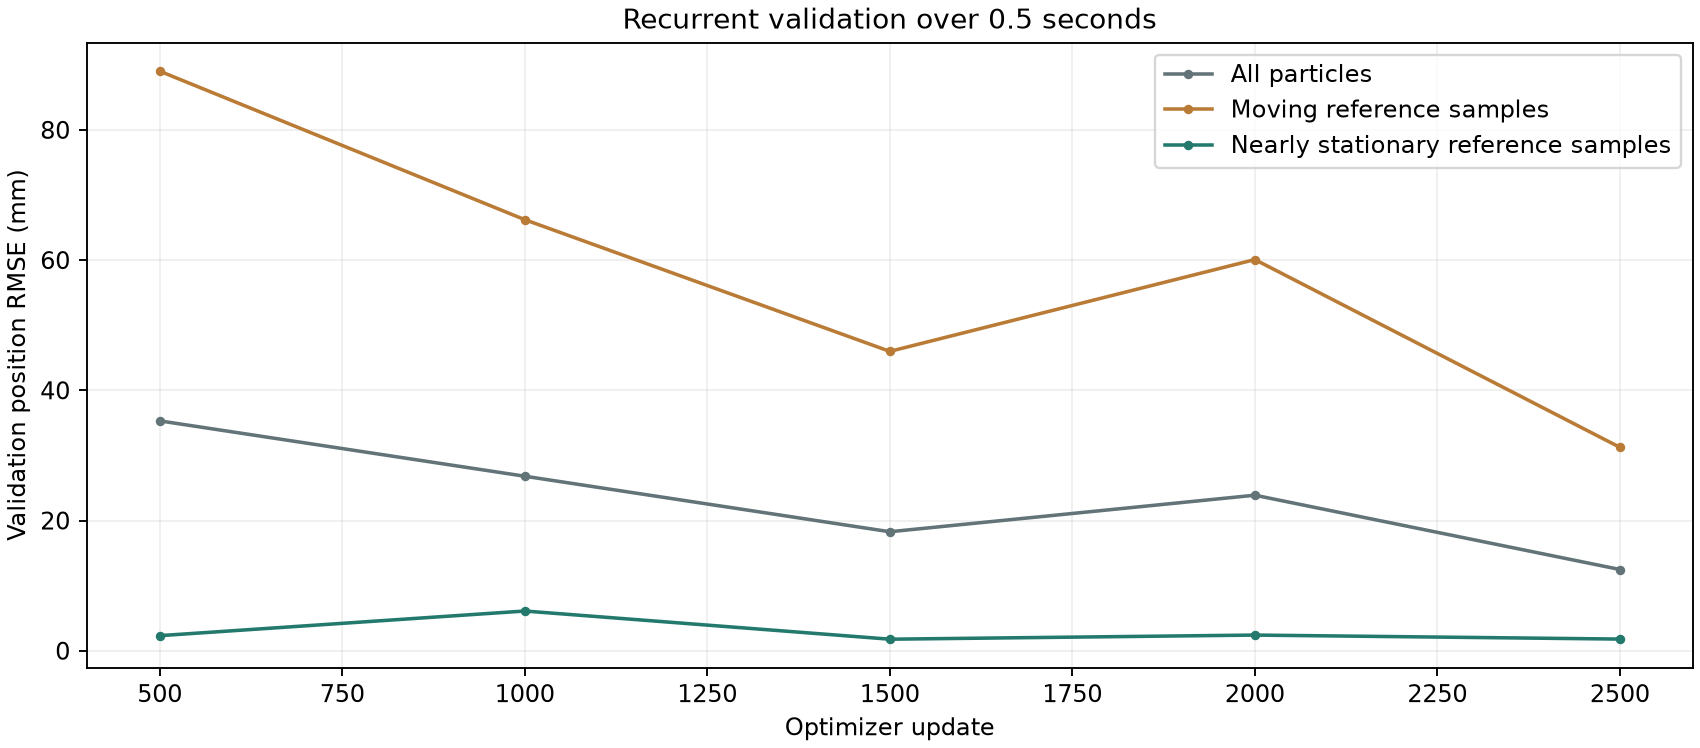
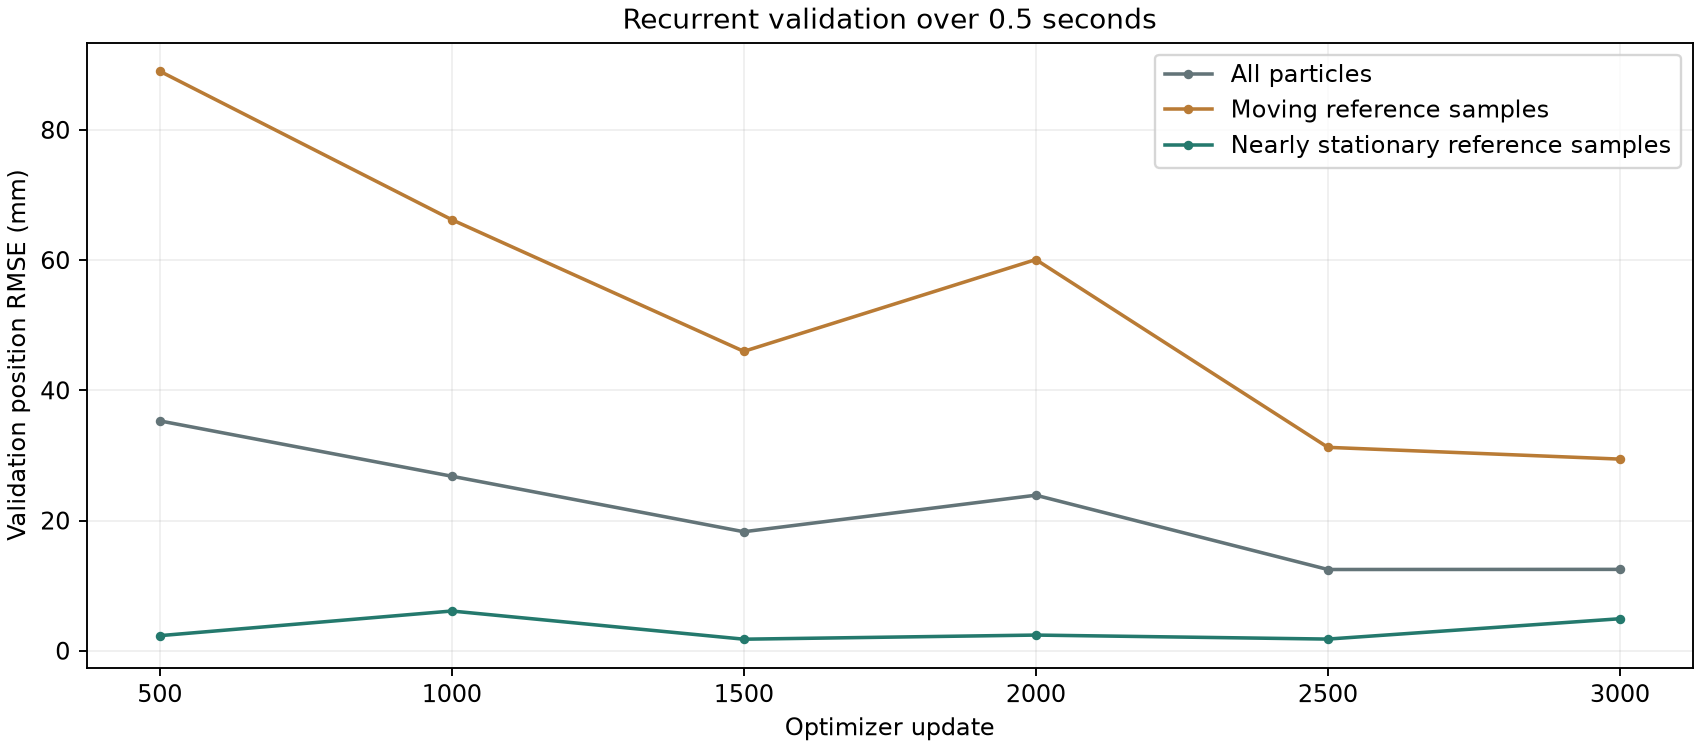
Update long-horizon Transolver progress (RUNNING)

diff --git a/transolver_long_horizon.html b/transolver_long_horizon.html
@@ -4,7 +4,7 @@
 <nav><a href="index.html">Methodology</a><a href="transolver.html">Transolver baseline</a><a href="gnn-v2.html">GNN v2</a></nav>
 <p class="tag">PARTICLE MOTION / RECURRENT TRAINING</p><h1>Transolver: 0.5-second training horizon</h1>
 <p class="lead">Reduce unwanted motion of settled material while retaining particle motion caused by the rigid box.</p>
-<div class="status"><strong>RUNNING</strong><p>Latest saved validation: update 2,500 / 10,000.</p><p><a href="https://us-west-2-aws.osmo.nvidia.com/workflows/particle-transolver-long-1">OSMO workflow</a> · <a href="https://dashboards.telemetry.dgxc.ngc.nvidia.com/d/workflow_resources/workflow-resources-v2?orgId=46&amp;var-datasource=ae6qyv87oh0cgd&amp;var-cluster=osmogroot-dgxc-k8s-forge-az41-prd1&amp;var-namespace=osmo-prod&amp;var-uuid=04e190c7cffc40b2&amp;from=now-1h&amp;to=now">GPU resource usage</a> · <a href="https://ovx-l40s-03.osmo.nvidia.com/dashboard/#/search?namespace=osmo-prod&amp;q=04e190c7cffc40b2">Task dashboard</a></p><p class="small">Updated 2026-10-20 04:12 UTC. Refresh this page for new checkpoint measurements.</p></div>
+<div class="status"><strong>RUNNING</strong><p>Latest saved validation: update 3,000 / 10,000.</p><p><a href="https://us-west-2-aws.osmo.nvidia.com/workflows/particle-transolver-long-1">OSMO workflow</a> · <a href="https://dashboards.telemetry.dgxc.ngc.nvidia.com/d/workflow_resources/workflow-resources-v2?orgId=46&amp;var-datasource=ae6qyv87oh0cgd&amp;var-cluster=osmogroot-dgxc-k8s-forge-az41-prd1&amp;var-namespace=osmo-prod&amp;var-uuid=04e190c7cffc40b2&amp;from=now-1h&amp;to=now">GPU resource usage</a> · <a href="https://ovx-l40s-03.osmo.nvidia.com/dashboard/#/search?namespace=osmo-prod&amp;q=04e190c7cffc40b2">Task dashboard</a></p><p class="small">Updated 2026-10-20 04:15 UTC. Refresh this page for new checkpoint measurements.</p></div>
 <h2>01 / Experiment</h2><table><tr><th>Setting</th><th>Baseline</th><th>New experiment</th></tr>
 <tr><td>Recurrent training horizon</td><td>4 steps / 0.08 s</td><td>25 steps / 0.5 s</td></tr>
 <tr><td>Loss</td><td>Moving samples weighted 5×; other samples 1×</td><td>Separate group means, equal weight</td></tr>
@@ -29,7 +29,7 @@ Backpropagate through the full sequence; no history reset or detached steps.</pr
 dt = 0.02 s</pre>
 <p>Both groups retain their reference position targets. Nearly stationary does not impose exactly zero motion. If a sequence contains only one group, that group receives the full loss. The grouping is based only on reference motion and does not freeze predicted particles.</p>
 <p>Each GPU trains on one sequence per update. Group normalization is applied within each sequence, then distributed training averages gradients. Recorded rigid-box pose and velocity are inputs at every step. Validation uses 32 fixed sequences at the same 25-step horizon. Checkpoint selection uses the square root of the average of the two pooled group mean squared position errors.</p>
-<h2>03 / Training progress</h2><table><tr><th>Validation measure at 25 steps</th><th>Latest value</th></tr><tr><td>All particle-time samples</td><td>12.476 mm</td></tr><tr><td>Moving reference samples</td><td>31.240 mm</td></tr><tr><td>Nearly stationary reference samples</td><td>1.790 mm</td></tr><tr><td>Balanced checkpoint-selection score</td><td>22.126 mm</td></tr></table><p class="small">Peak allocated PyTorch GPU memory on rank 0: 2.30 GiB. This excludes other processes and allocations outside PyTorch.</p><img src="assets/transolver-long-horizon/training.png" alt="Validation position errors over training updates">
+<h2>03 / Training progress</h2><table><tr><th>Validation measure at 25 steps</th><th>Latest value</th></tr><tr><td>All particle-time samples</td><td>12.495 mm</td></tr><tr><td>Moving reference samples</td><td>29.432 mm</td></tr><tr><td>Nearly stationary reference samples</td><td>4.914 mm</td></tr><tr><td>Balanced checkpoint-selection score</td><td>21.099 mm</td></tr></table><p class="small">Peak allocated PyTorch GPU memory on rank 0: 2.30 GiB. This excludes other processes and allocations outside PyTorch.</p><img src="assets/transolver-long-horizon/training.png" alt="Validation position errors over training updates">
 <p class="small">Do not compare these 25-step validation errors directly with the baseline's four-step validation error. Compare both models at the same evaluation horizon.</p>
 <h2>04 / Matched five-second evaluation</h2><p>Pending. Evaluate the selected checkpoint on the same twelve five-second trajectories as the baseline. Particle predictions are recurrent; recorded box pose and velocity are supplied at each step.</p>
 <h2 id="videos">05 / Prediction videos</h2><p>Scheduled after training: five-second Newton RTX comparisons for continuous dragging and pushing. Video rendering runs locally after the cloud evaluation finishes.</p><p class="small">Left: MPM reference particles. Right: recurrent Transolver particles from the selected long-horizon checkpoint. Both views replay the same recorded box motion. Particle predictions are not reset to MPM. Brown particles, gray box, lighting, camera, and display radius match the baseline videos. This is particle prediction, not force-estimator-driven box motion.</p>
